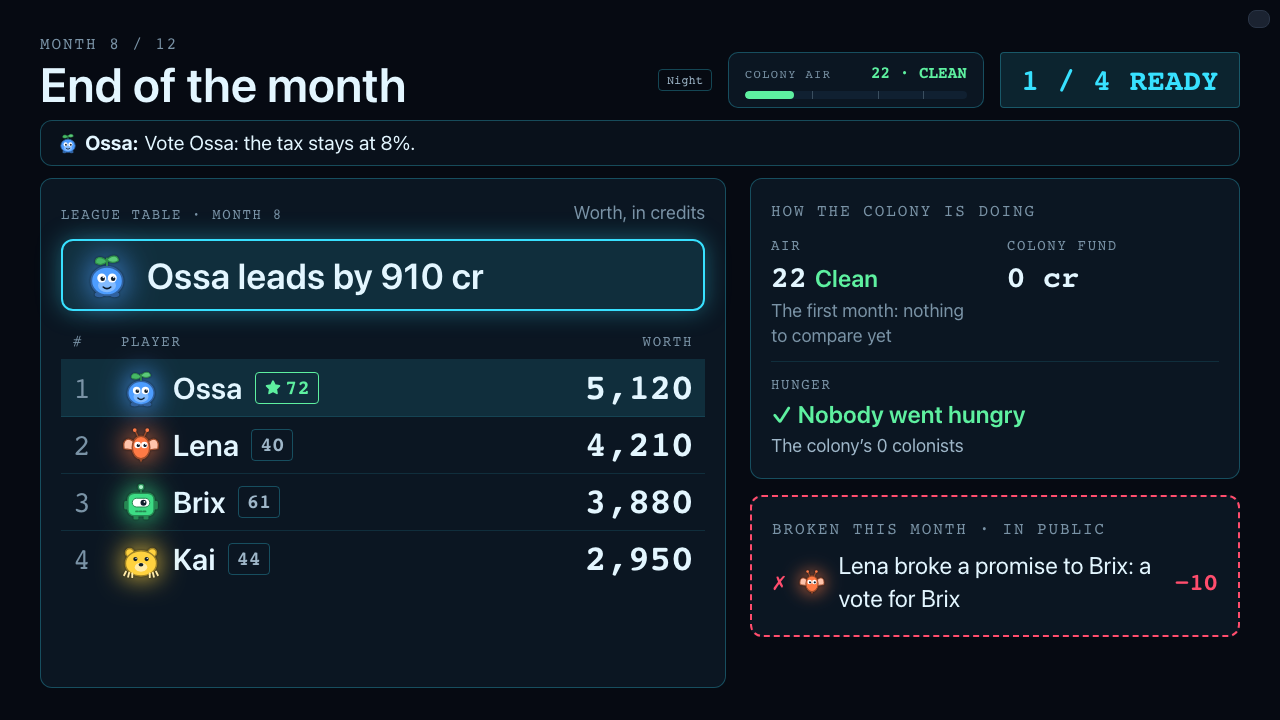
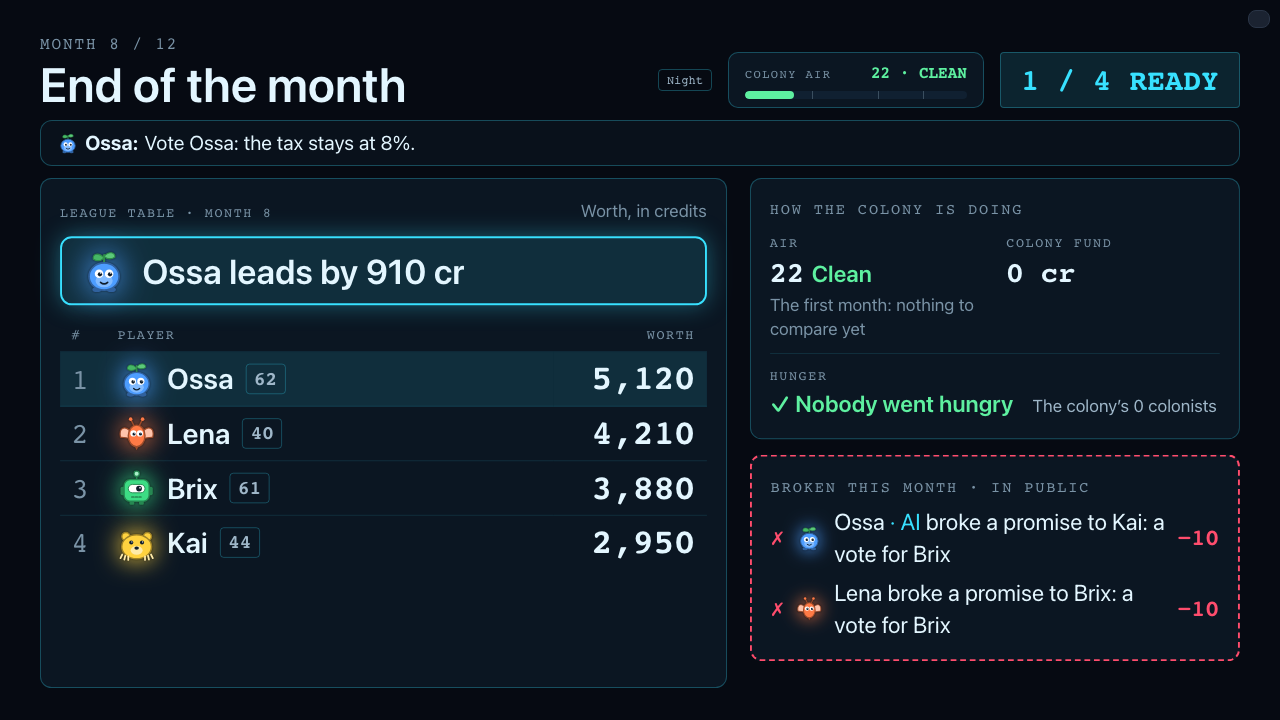
chore(mocks): politics P1 · AI mark on computer seats' deal cards
Heiko's ruling (8 Nov): a computer seat's name on a deal card carries the
Talk list's " · AI" mark: card label, names, lines, My cards, the composer's
header, the TV banner and month end. Drawn inline (data-testid ai-mark)
until chat/Chat.tsx's AiMark lands on trunk. New states: Ossa offers Lena a
card (agenda and thread), Ossa breaks one on the TV, and the month end lists
an AI break beside a person's.

diff --git a/design/mocks/politics-deals/src/proposed/Deals.tsx b/design/mocks/politics-deals/src/proposed/Deals.tsx
@@ -7,7 +7,7 @@ import { useClient, useClientState } from '../../../../../apps/web/src/net/react
 import { usePhoneGame } from '../../../../../apps/web/src/phone/game';
 import { OnlyYou } from '../../../../../apps/web/src/phone/hub/OnlyYou';
 import { REFUSE_BELOW } from '../fixture';
-import { RepChip, shellOf, Who } from './parts';
+import { CardWho, Marked, RepChip, shellOf, Who } from './parts';
 import { bindsWords, lawUp, monthsWords, nameOf, stakesWords, statusWords, titleWords } from './words';
 
 /*
@@ -256,7 +256,7 @@ export function DealComposerSheet({ to, kind, onClose, anchor }: { to: string; k
     <div className="absolute inset-y-0 right-0 z-40 flex w-(--rail) flex-col border-l-2 border-holo bg-panel shadow-glow" role="dialog" aria-modal aria-label={`Deal card for ${c.other.name}`} data-testid="composer-a">
       <header className="flex items-center gap-1.5 border-b border-holo-faint py-0.5 pl-3 pr-1">
         <span className="whitespace-nowrap text-xs font-semibold text-ink-2">Card for</span>
-        <Who view={c.view} id={to} size={14} rep />
+        <CardWho view={c.view} id={to} size={14} rep />
         <Button size="md" variant="ghost" className="ml-auto px-2.5" onClick={onClose} data-testid="composer-a-close">
           Close
         </Button>
@@ -291,7 +291,7 @@ export function DealComposerInline({ to, kind, onClose }: { to: string; kind?: D
     <section ref={ref} className="flex shrink-0 flex-col gap-1.5 rounded-panel border-2 border-dashed border-holo bg-holo-soft p-2" aria-label={`Draft deal card for ${c.other.name}`} data-testid="composer-b">
       <span className="flex items-center gap-1">
         <span className="label-caps text-[10px]!">Draft · card for</span>
-        <Who view={c.view} id={to} size={14} rep />
+        <CardWho view={c.view} id={to} size={14} rep />
       </span>
       <ComposerFields c={c} testid="composer-b" />
       <ComposerNotes c={c} testid="composer-b" />
@@ -318,26 +318,28 @@ function DealFace({ c, tone = 'solid', expiry = false, testid, children }: { c: 
   return (
     <section className={cx('flex shrink-0 flex-col gap-1 rounded-panel border-2 p-2', tone === 'solid' ? 'border-holo bg-holo-soft' : 'border-holo-line bg-panel')} data-testid={testid} data-status={c.status}>
       <span className="flex items-center justify-between gap-1">
-        <span className="label-caps truncate text-[10px]!">Card {c.from === me.id ? `to ${nameOf(view, c.to, me.id)}` : `from ${nameOf(view, c.from, me.id)}`}</span>
+        <span className="label-caps truncate text-[10px]!" data-testid={`${testid}-label`}>
+          <Marked text={`Card ${c.from === me.id ? `to ${nameOf(view, c.to, me.id)}` : `from ${nameOf(view, c.from, me.id)}`}`} view={view} />
+        </span>
         <span className="shrink-0 whitespace-nowrap">
           <OnlyYou text="You two" />
         </span>
       </span>
       <span className="font-display text-base font-semibold leading-tight" data-testid={`${testid}-title`}>
-        {titleWords(view, c, me.id)}
+        <Marked text={titleWords(view, c, me.id)} view={view} />
       </span>
       <span className="text-xs leading-snug" data-testid={`${testid}-binds`}>
-        {bindsWords(view, c, me.id)}
+        <Marked text={bindsWords(view, c, me.id)} view={view} />
       </span>
       <span className="flex flex-wrap items-center gap-x-2 gap-y-0.5 text-xs" data-testid={`${testid}-names`}>
-        <Who view={view} id={c.from} me={me.id} size={14} rep open testid={`${testid}-from`} />
+        <CardWho view={view} id={c.from} me={me.id} size={14} rep open testid={`${testid}-from`} />
         <span aria-hidden className="text-ink-3">
           ·
         </span>
-        <Who view={view} id={c.to} me={me.id} size={14} rep open testid={`${testid}-to`} />
+        <CardWho view={view} id={c.to} me={me.id} size={14} rep open testid={`${testid}-to`} />
       </span>
       <span className="text-[11px] leading-snug text-ink-2" data-testid={`${testid}-stakes`}>
-        {stakesWords(view, c, me.id)}
+        <Marked text={stakesWords(view, c, me.id)} view={view} />
         {expiry && <> Unanswered, it expires when planning ends.</>}
       </span>
       {children}
@@ -373,7 +375,7 @@ export function OutgoingDeal({ c }: { c: DealCard }) {
       <span className="flex items-center justify-between gap-2">
         <span className="flex items-center gap-1.5 text-sm font-semibold text-holo" data-testid={`outgoing-${c.id}-waiting`}>
           <span aria-hidden className="size-2 animate-pulse rounded-full bg-holo" />
-          {statusWords(view, c, me.id)}
+          <Marked text={statusWords(view, c, me.id)} view={view} />
         </span>
         <Button size="md" variant="ghost" className="-mr-2" onClick={() => client.intent({ type: 'withdrawDeal', id: c.id })} data-testid={`outgoing-${c.id}-withdraw`}>
           Withdraw
@@ -395,8 +397,13 @@ export function DealLine({ c, testid }: { c: DealCard; testid?: string }) {
         {MARK[c.status]}
       </span>
       <span className="min-w-0">
-        <strong className="font-semibold">{titleWords(view, c, me.id)}</strong>
-        <span className="text-ink-2"> · {statusWords(view, c, me.id)}</span>
+        <strong className="font-semibold">
+          <Marked text={titleWords(view, c, me.id)} view={view} />
+        </strong>
+        <span className="text-ink-2">
+          {' '}
+          · <Marked text={statusWords(view, c, me.id)} view={view} />
+        </span>
       </span>
     </span>
   );
@@ -446,8 +453,12 @@ function MyDealRow({ c }: { c: DealCard }) {
         <DealLine c={c} testid={`my-deal-${c.id}-line`} />
       </span>
       <span className="flex flex-wrap items-center gap-x-1.5 pl-[18px] text-[11px] text-ink-2">
-        with <Who view={view} id={other} me={me.id} size={12} rep open testid={`my-deal-${c.id}-with`} />
-        {c.status === 'active' && <span data-testid={`my-deal-${c.id}-binds`}>· {bindsWords(view, c, me.id)}</span>}
+        with <CardWho view={view} id={other} me={me.id} size={12} rep open testid={`my-deal-${c.id}-with`} />
+        {c.status === 'active' && (
+          <span data-testid={`my-deal-${c.id}-binds`}>
+            · <Marked text={bindsWords(view, c, me.id)} view={view} />
+          </span>
+        )}
         {c.settled !== null && <span className="font-mono text-[10px] text-ink-3">· month {c.settled}</span>}
       </span>
     </div>

diff --git a/design/mocks/politics-deals/src/scenarios.ts b/design/mocks/politics-deals/src/scenarios.ts
@@ -106,6 +106,8 @@ export const SCREENS: Screen[] = [
     graft: 'Deals.tsx IncomingDeal, in Chat’s thread; today.tsx’s agenda (DEALS_AGENDA)',
     states: [
       { id: 'agenda', label: 'On the agenda', note: 'Brix’s hub: “1 deal offer · From Lena” leads This month, and the Talk tab carries a 1. Tap the door.', world: () => baseWorld({ cards: [pact()] }), phones: { brix: null } },
+      { id: 'from-ai', label: 'From an AI seat', note: 'Ossa (an AI seat) offers Lena a pact: “Card from Ossa · AI”, on the agenda and in their thread (Heiko, 8 Nov). Tap the door.', world: () => baseWorld({ cards: [card({ id: 'deal-k9p4wd', from: 'ossa', to: 'lena', terms: PACT, until: 7 })] }), phones: { lena: null } },
+      { id: 'from-ai-thread', label: 'From an AI, in the thread', note: 'The same card in the Lena–Ossa whisper: the mark after Ossa’s name on the label, the names and the stakes.', world: () => baseWorld({ cards: [card({ id: 'deal-k9p4wd', from: 'ossa', to: 'lena', terms: PACT, until: 7 })] }), phones: { lena: 'deals' } },
       { id: 'thread', label: 'In the thread', note: 'The card in the pair’s whisper: both reputations, what it binds, Accept / Decline.', world: () => baseWorld({ cards: [pact()] }), phones: { brix: 'deals' } },
       { id: 'vote', label: 'A vote card', note: 'Lena’s vote for Brix: he promises nothing; what Lena risks.', world: () => baseWorld({ cards: [vote()] }), phones: { brix: 'deals' } },
       { id: 'two', label: 'Two offers', note: 'Lena and Kai both: the door opens My cards, the two together.', world: () => baseWorld({ cards: [pact(), card({ id: 'deal-k9p4wd', from: 'kai', to: 'brix', terms: { kind: 'vote', office: 'governor', candidate: 'brix' }, until: 8 })] }), phones: { brix: 'deals' } },
@@ -155,7 +157,8 @@ export const SCREENS: Screen[] = [
       { id: 'vote', label: 'A vote broken', note: 'The banner under the header as the result takes effect: who, to whom, what; 50 → 40.', world: () => brokenVoteWorld(), phones: { kai: null }, tv: true },
       { id: 'law', label: 'A law vote broken', note: 'The same banner for a law card: “a yes on the law”.', world: () => baseWorld({ month: 6, rep: { lena: 40, ossa: 72, brix: 61, kai: 44 }, cards: [law({ status: 'broken', brokenBy: 'lena', settled: 6 })], news: ['Lena broke a promise to Brix: a yes on the law. Reputation −10.'] }), phones: {}, tv: true },
       { id: 'pact', label: 'A pact broken', note: 'Slice 4’s capture breaks a pact: −20.', world: () => baseWorld({ month: 6, rep: { lena: 20, ossa: 72, brix: 64, kai: 44 }, cards: [pact({ status: 'broken', brokenBy: 'lena', settled: 6 })], news: [BROKE_PACT] }), phones: {}, tv: true },
-      { id: 'month-end', label: 'Month end', note: 'The month’s broken cards under the colony panel, on the TV and every phone.', world: () => brokenVoteWorld('monthEnd'), phones: { kai: null }, tv: true },
+      { id: 'ai', label: 'An AI seat breaks one', note: 'Ossa (AI) promised Kai a yes and voted no: the banner names “Ossa · AI” (Heiko, 8 Nov).', world: () => baseWorld({ month: 6, rep: { lena: 50, ossa: 62, brix: 61, kai: 44 }, cards: [card({ id: 'deal-z5n1yq', from: 'ossa', to: 'kai', terms: LAW_YES, offered: 5, until: 6, status: 'broken', brokenBy: 'ossa', settled: 6 })], news: ['Ossa broke a promise to Kai: a yes on the law. Reputation −10.'] }), phones: { kai: 'card:ossa' }, tv: true },
+      { id: 'month-end', label: 'Month end', note: 'The month’s broken cards under the colony panel, on the TV and every phone: one by a person, one by an AI seat.', world: () => { const w = brokenVoteWorld('monthEnd'); return { ...w, rep: { ...w.rep, ossa: 62 }, cards: [card({ id: 'deal-z5n1yq', from: 'ossa', to: 'kai', terms: VOTE_BRIX, offered: 6, until: 8, status: 'broken', brokenBy: 'ossa', settled: 8 }), ...w.cards] }; }, phones: { kai: null }, tv: true },
     ],
   },
 ];

diff --git a/design/mocks/politics-deals/src/proposed/parts.tsx b/design/mocks/politics-deals/src/proposed/parts.tsx
@@ -2,7 +2,7 @@ import { POLITICS } from '@mule/engine';
 import type { DealCard } from '@mule/engine';
 import type { MuleView } from '@mule/protocol';
 import { Button, Creature, cx } from '@mule/ui';
-import { useEffect, useRef, useState, type ReactNode } from 'react';
+import { Fragment, useEffect, useRef, useState, type ReactNode } from 'react';
 import { createPortal } from 'react-dom';
 import { useHub, type HubNav } from '../../../../../apps/web/src/phone/hub/Hub';
 import { colorOf } from '../../../../../apps/web/src/phone/hub/politics/parts';
@@ -14,6 +14,45 @@ import { brokenWords } from './words';
  * Who gains `rep` (the chip after the name) and `open` (the name and chip open the player's card). The player's card is
  * also where a deal starts from a name (P1's "from the avatar or name", S3-C17).
  */
+
+// ---- Heiko's ruling (8 Nov): a computer seat's name on a deal card carries "· AI" ----------------------------------
+
+/**
+ * Stand-in for chat/Chat.tsx's AiMark (team-lead: landing on trunk shortly); the build imports that one. Exactly the
+ * Talk list's mark (apps/web/src/phone/parts.tsx:168).
+ */
+export function AiMark() {
+  return (
+    <span className="text-holo" data-testid="ai-mark">
+      {' '}
+      · AI
+    </span>
+  );
+}
+
+const escapeRe = (s: string) => s.replace(/[.*+?^${}()|[\]\\]/g, '\\$&');
+
+/**
+ * A card's words with the mark after each computer seat's name. Not after a possessive ("Ossa’s vote"): there the
+ * card's label carries it ("Card from Ossa · AI").
+ */
+export function Marked({ text, view }: { text: string; view: Pick<MuleView, 'players'> }) {
+  const ai = view.players.filter((p) => p.isAi).map((p) => escapeRe(p.name));
+  if (ai.length === 0) return <>{text}</>;
+  const parts = text.split(new RegExp(`\\b(${ai.join('|')})\\b(?![’']s)`, 'g'));
+  return <>{parts.map((p, i) => (i % 2 === 1 ? <Fragment key={i}>{p}<AiMark /></Fragment> : p))}</>;
+}
+
+/** Who on a card: the name, its chip, and the mark for a computer seat. */
+export function CardWho(props: Parameters<typeof Who>[0]) {
+  const ai = props.view.players.find((p) => p.id === props.id)?.isAi;
+  return (
+    <span className="inline-flex items-center gap-1">
+      <Who {...props} />
+      {ai && <AiMark />}
+    </span>
+  );
+}
 
 // ---- P4 · the chip ------------------------------------------------------------------------------------------
 
@@ -225,7 +264,9 @@ export function PlayerCard({ view, id, me, anchor, onClose }: { view: Pick<MuleV
               {rows.map((r) => (
                 <li key={r.key} className="flex items-baseline gap-2" data-testid={`reason-${r.key}`}>
                   <span className="shrink-0 font-mono text-[10px] text-ink-3">M{r.month}</span>
-                  <span className="min-w-0 flex-1">{r.words}</span>
+                  <span className="min-w-0 flex-1">
+                    <Marked text={r.words} view={view} />
+                  </span>
                   {r.move !== 0 && (
                     <span data-num className="shrink-0 font-mono font-bold text-alert">
                       −{-r.move}

diff --git a/design/mocks/politics-deals/src/proposed/MonthEnd.tsx b/design/mocks/politics-deals/src/proposed/MonthEnd.tsx
@@ -4,7 +4,7 @@ import { cx, PlayerMark } from '@mule/ui';
 import { fmt, toSlot } from '../../../../../apps/web/src/game/derive';
 import { inCollapse, league, leaderWords } from '../../../../../apps/web/src/game/month-end';
 import { ChangeTag, type Density } from '../../../../../apps/web/src/components/MonthEnd';
-import { RepChip } from './parts';
+import { Marked, RepChip } from './parts';
 import { brokenMove, brokenWords } from './words';
 
 /*
@@ -34,7 +34,9 @@ export function BrokenCards({ view, month, density }: { view: MuleView; month: n
                 ✗
               </span>
               <PlayerMark slot={toSlot(who.slot)} species={who.species} size={tv ? 28 : 14} label={who.name} />
-              <span className="min-w-0 flex-1 leading-snug">{brokenWords(view, c)}</span>
+              <span className="min-w-0 flex-1 leading-snug">
+                <Marked text={brokenWords(view, c)} view={view} />
+              </span>
               <span data-num className={cx('shrink-0 font-mono font-bold text-alert', tv ? 'text-2xl' : 'text-xs')}>
                 −{-brokenMove(c)}
               </span>

diff --git a/design/mocks/politics-deals/src/proposed/TvDeals.tsx b/design/mocks/politics-deals/src/proposed/TvDeals.tsx
@@ -2,7 +2,7 @@ import type { MuleView } from '@mule/protocol';
 import { PlayerMark } from '@mule/ui';
 import { toSlot } from '../../../../../apps/web/src/game/derive';
 import { brokenIn } from './MonthEnd';
-import { RepChip } from './parts';
+import { Marked, RepChip } from './parts';
 import { brokenMove, brokenWords } from './words';
 
 /*
@@ -30,7 +30,7 @@ export function TvBreakBanner({ game }: { game: MuleView }) {
             <span className="flex min-w-0 flex-1 flex-col">
               <span className="label-caps text-base! text-alert-ink">{c.terms.kind === 'pact' ? 'A pact was broken' : 'A promise was broken'}</span>
               <span className="font-display text-3xl font-semibold leading-tight text-alert-ink" data-testid={`tv-break-${c.id}-words`}>
-                {brokenWords(game, c)}
+                <Marked text={brokenWords(game, c)} view={game} />
               </span>
             </span>
             <span className="flex shrink-0 flex-col items-end gap-1">

diff --git a/design/mocks/politics-deals/src/App.tsx b/design/mocks/politics-deals/src/App.tsx
@@ -311,6 +311,7 @@ const DECISIONS: [string, string][] = [
   ['Ballots', '“You promised Brix your vote” under the ballot’s legend, PROMISED on the candidate, picked on her phone only; she casts as she likes.'],
   ['TV break', 'A red banner under the planning header, in the news’s words, with the drop (50 → 40) beside the breaker’s chip; it holds for that planning.'],
   ['Month end', 'The month’s broken cards in one dashed list, under the colony panel on the TV and under the league on the phone.'],
+  ['AI mark', 'Heiko, 8 Nov: a computer seat’s name on a deal card carries a quiet “· AI” (the Talk list’s mark): card label, names, lines, My cards, the TV banner and month end. Not after a possessive; the label carries it there.'],
   ['Words', 'No pronouns anywhere: “Lena broke a promise to Brix: a vote for Brix” (finding F-3).'],
 ];
 
